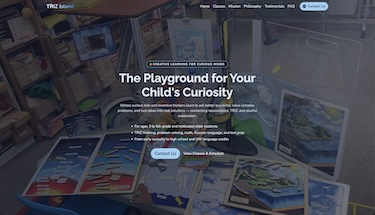
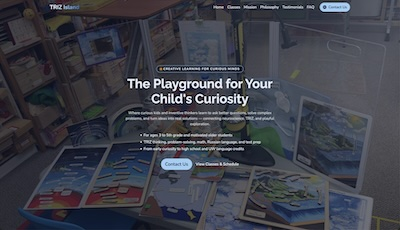
use card stack instead of bubbles

diff --git a/breba_app/templates/home.html b/breba_app/templates/home.html
@@ -89,57 +89,42 @@
     <link href="https://cdn.jsdelivr.net/npm/bootstrap@5.3.3/dist/css/bootstrap.min.css" rel="stylesheet">
     <link rel="stylesheet" href="{{ asset('styles.css') }}">
     <style>
-    .bubble-scene {
+    .screenshot-stack {
         position: relative;
         width: 100%;
-        height: 480px;
+        aspect-ratio: 16 / 11;
         flex-shrink: 0;
     }
-    .bubble {
+    .stack-card {
         position: absolute;
-        width: 10rem;
-        height: 10rem;
-        border-radius: 50%;
+        width: 60%;
+        aspect-ratio: 16 / 9;
+        left: 5%;
+        top: 50%;
+        margin-top: -25.3125%; /* half card height = (90% × 9/16) / 2; % is relative to parent width */
+        border-radius: 10px;
         overflow: hidden;
-        background: rgba(161, 138, 231, 0.10);
-        border: 1.5px solid rgba(161, 138, 231, 0.30);
-        box-shadow: 0 0 24px rgba(161, 138, 231, 0.25), 0 0 6px rgba(161, 138, 231, 0.15);
-        animation: floatBubble var(--dur, 6s) ease-in-out infinite;
-        animation-delay: var(--delay, 0s);
-        transition: width 0.4s ease, height 0.4s ease, border-radius 0.4s ease, box-shadow 0.4s ease;
+        border: 1.5px solid rgba(161, 138, 231, 0.35);
+        box-shadow: 0 8px 32px rgba(0, 0, 0, 0.45), 0 0 16px rgba(161, 138, 231, 0.2);
+        transition: transform 0.35s cubic-bezier(0.25, 0.46, 0.45, 0.94), box-shadow 0.35s ease;
         cursor: pointer;
     }
-    .bubble img {
+    .stack-card img {
         width: 100%;
         height: 100%;
         object-fit: cover;
         display: block;
     }
-    .bubble:hover,
-    .bubble.expanded {
-        width: 375px !important;
-        height: 211px !important;
-        border-radius: 12px;
-        box-shadow: 0 0 40px rgba(161, 138, 231, 0.45), 0 8px 32px rgba(0,0,0,0.4);
-        animation-play-state: paused;
-        z-index: 100 !important;
+    .c1 { transform: rotate(-5deg) translate(-5%,  -50%); z-index: 1; }
+    .c2 { transform: rotate(4deg) translate(50%,    -39%); z-index: 2; }
+    .c3 { transform: rotate(5deg)  translate(2%,     3%); z-index: 3; }
+    .c4 { transform: rotate(-3deg)  translate(-3%,    55%); z-index: 4; }
+    .c5 { transform: rotate(-1deg)  translate(55%,  75%); z-index: 5; }
+    .stack-card:hover {
+        box-shadow: 0 8px 32px rgba(0, 0, 0, 0.45), 0 0 16px rgba(161, 138, 231, 0.45);
+        z-index: 100;
     }
-    .bubble:hover img,
-    .bubble.expanded img {
-        object-fit: contain;
-    }
-    .b1 { top: 4%;           left: 3%;         --dur: 6s;   --delay: 0s;    --tx: 24px;  --ty: -28px; z-index: 3; }
-    .b2 { top: 3%;           right: 5%;        --dur: 7.5s; --delay: -1.5s; --tx: -20px; --ty: -24px; z-index: 2; }
-    .b3 { top: 38%;          left: calc(50% - 5rem); --dur: 5.5s; --delay: -3s;   --tx: 28px;  --ty: -10px; z-index: 4; }
-    .b4 { bottom: 5%;        left: 6%;         --dur: 8s;   --delay: -2s;   --tx: -24px; --ty: -30px; z-index: 2; }
-    .b5 { bottom: 5%;        right: 5%;        --dur: 6.5s; --delay: -4s;   --tx: 20px;  --ty: -22px; z-index: 1; }
-    @keyframes floatBubble {
-        0%   { transform: translate3d(0, 0, 0) scale(1.1);                                      z-index: var(--z-low, 1);  }
-        49%  { z-index: var(--z-low, 1); }
-        50%  { transform: translate3d(var(--tx, 0), var(--ty, -18px), 20px)  scale(1);         z-index: var(--z-high, 10); }
-        99%  { z-index: var(--z-high, 10); }
-        100% { transform: translate3d(0, 0, 0)  scale(1.1);                                      z-index: var(--z-low, 1);  }
-    }
+
     </style>
     <link href="https://fonts.googleapis.com/css2?family=Inter:wght@300;400;500;600;700&display=swap" rel="stylesheet">
     <link rel="stylesheet" href="https://cdnjs.cloudflare.com/ajax/libs/font-awesome/6.0.0/css/all.min.css">
@@ -320,12 +305,12 @@
             </div>
 
         </div>
-        <div class="bubble-scene">
-            <div class="bubble b1"><img src="{{ asset('screenshot-pets.jpg') }}" alt="Pets landing page"></div>
-            <div class="bubble b2"><img src="{{ asset('screenshot-arttent.jpg') }}" alt="Arttent landing page"></div>
-            <div class="bubble b3"><img src="{{ asset('screenshot-guadaurikidsclub.jpg') }}" alt="Guadauri Kids Club landing page"></div>
-            <div class="bubble b4"><img src="{{ asset('screenshot-triz.jpg') }}" alt="Triz landing page"></div>
-            <div class="bubble b5"><img src="{{ asset('screenshot-dirtroads.jpg') }}" alt="Dirtroad Guardians landing page"></div>
+        <div class="screenshot-stack">
+            <div class="stack-card c1"><img src="{{ asset('screenshot-dirtroads.jpg') }}" alt="Dirtroad Guardians landing page"></div>
+            <div class="stack-card c2"><img src="{{ asset('screenshot-arttent.jpg') }}" alt="Arttent landing page"></div>
+            <div class="stack-card c3"><img src="{{ asset('screenshot-guadaurikidsclub.jpg') }}" alt="Guadauri Kids Club landing page"></div>
+            <div class="stack-card c4"><img src="{{ asset('screenshot-pets.jpg') }}" alt="Pets landing page"></div>
+            <div class="stack-card c5"><img src="{{ asset('screenshot-triz.jpg') }}" alt="Triz landing page"></div>
         </div>
     </div>
 </section>
